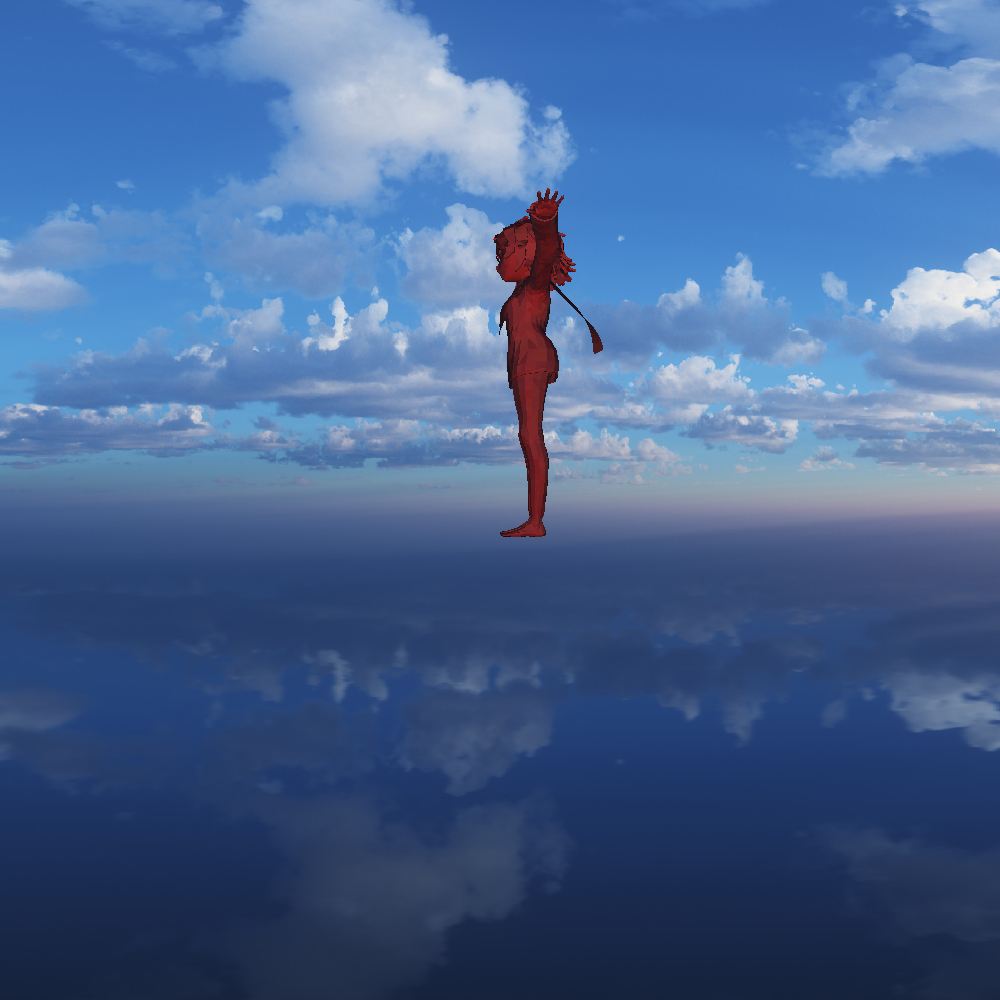
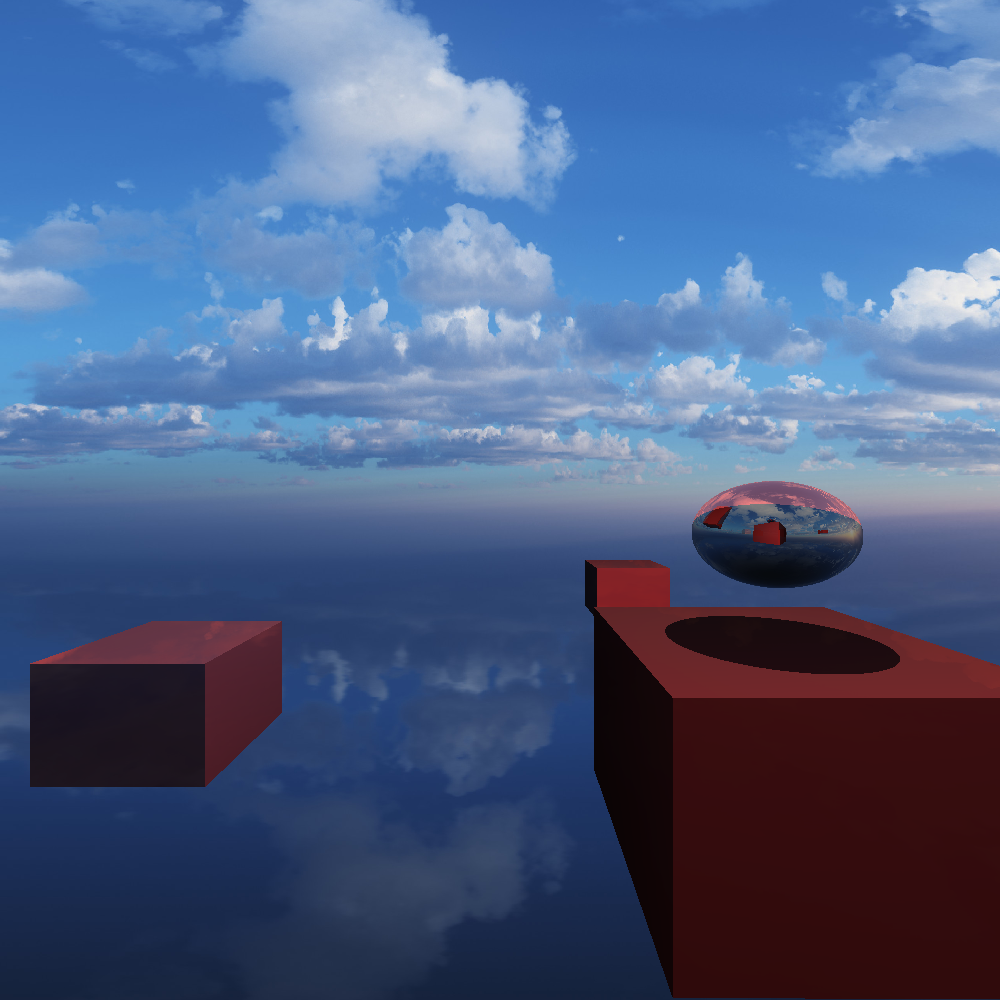
Presenting version

diff --git a/dev/src/render/render.c b/dev/src/render/render.c
@@ -6,39 +6,28 @@ void get_background(ray* ry, world* wd){
         scale(ry->dir, -1, dir);
         float u = 0.5+ (atan2f(dir[0], dir[2])/(M_PI*2));
         float v = 0.5+ (asinf(dir[1])/M_PI);
+        SDL_Surface* skybox = wd->skybox;
         int x = u*wd->skybox->w;
         int y = v*wd->skybox->h;
         Uint32 pixel = ((Uint32*)wd->skybox->pixels)[y*wd->skybox->w+x];
         Uint8 r, g, b;
         SDL_GetRGB(pixel, skybox->format, &r,&g,&b);
-        ray_update_result(ry, NULL, INFINITY, (float[]){r/255.0,g/255.0,b/255.0}, (float[]){0,0,0});
+        ray_update_result(ry, NULL, INFINITY, (float[]){r/255.0,g/255.0,b/255.0}, (float[]){0,0,0}, 0);
     }else
-        ray_update_result(ry, NULL, INFINITY, (float[]){0,0,0}, (float[]){0,0,0});
+        ray_update_result(ry, NULL, INFINITY, (float[]){0,0,0}, (float[]){0,0,0}, 0);
 }
 
-
-//check if the shadow_ray touches the light
-//returns 1 if hit an object, 0 otherwise ()
-int shadow_hit(ray* shadow_ray,float prevt){
-    if (shadow_ray->last_hit->tri != NULL)
-        return 1;
-    if (shadow_ray->last_hit->mint != prevt)
-        return 1;
-
-    return 0;     
-}
-
-void shadow_render(ray* ray, world* w, int real_time)
+void shadow_render(ray* ry, world* w)
 {
     struct ray* sRay = calloc(sizeof(struct ray),1);
 
     //Define the position of the shadow ray
-    scale(ray->dir, ray->last_hit->mint + 0.001, sRay->pos);
-    add(ray->pos, sRay->pos, sRay->pos);
-    //printf("triangle : %f\n", ray->last_hit->tri->normal);
-    //Define the normal of the triangle hit by ray
+    scale(ry->dir, (ry->last_hit->mint - 0.00001), sRay->pos);
+    add(ry->pos, sRay->pos, sRay->pos);
+    //printf("triangle : %f\n", ry->last_hit->tri->normal);
+    //Define the normal of the triangle hit by ry
     float normal[3] ={0,0,0};
-    copy(normal,ray->last_hit->normal);
+    normalize(ry->last_hit->normal,normal);
 
     int size = w->size_lights;
     for (int i = 0; i < size; i++){
@@ -47,34 +36,37 @@ void shadow_render(ray* ray, world* w, int real_time)
         
         //Normalize the direction vector
         normalize(sRay->dir,sRay->dir);
-        float x = dotProduct(normal, sRay->dir);
-        float c = x * w->lights[i]->intensity;
+        float mint = distance(sRay->pos, w->lights[i]->pos)+0.01;
+        float c = 1/mint * w->lights[i]->intensity;
+
         //float coeff[3] = {c,c,c};
         
-        sRay->current_mesh = ray->current_mesh;
         sRay->last_hit = calloc(sizeof(struct ray_result),1);
-        sRay->last_hit->mint = distance(sRay->pos, w->lights[i]->pos);
-        float prevt = sRay->last_hit->mint;
-        ray_cast(sRay, w, NULL,0);
+        sRay->last_hit->mint = mint;
+        ray_cast(sRay, w, 0, 0);
         
         //if we hit somthing, set the color in black
-        if (shadow_hit(sRay,prevt) == 0){
-                //add(ray->last_hit->color, coeff, ray->last_hit->color);
-                ray->last_hit->color[0] = ((1 -ray->last_hit->color[0])*c+ray->last_hit->color[0]);
-                ray->last_hit->color[1] = ((1 -ray->last_hit->color[1])*c+ray->last_hit->color[1]);
-                ray->last_hit->color[2] = ((1 -ray->last_hit->color[2])*c+ray->last_hit->color[2]);
+        float x = dotProduct(normal, sRay->dir);
+        if (sRay->last_hit->mint == mint && x > 0){
 
-            }     
-        else{
-                scale(ray->last_hit->color, c, ray->last_hit->color);
-                }
+
+                //light
+                ry->last_hit->color[0] = ((1 -ry->last_hit->color[0])*c+ry->last_hit->color[0]);
+                ry->last_hit->color[1] = ((1 -ry->last_hit->color[1])*c+ry->last_hit->color[1]);
+                ry->last_hit->color[2] = ((1 -ry->last_hit->color[2])*c+ry->last_hit->color[2]);
+        }       
+        else //shadow
+            scale(ry->last_hit->color, sqrt(c), ry->last_hit->color);
+        if(sRay->last_hit)
+            free(sRay->last_hit);
     }
-        free(sRay->last_hit);
-
     free(sRay);
 }
-//int shadow : 1 to compute shadows, 0 otherwise
-void ray_cast(ray* r, world* w, camera* cam, int shadow){
+void _ray_cast(ray* r, world* w, int reflection_count, int allow_shadow){
+    if(reflection_count < 0){
+        get_background(r, w);
+        return;
+    }
     for(int idm = 0; idm < w->size_meshes; idm++){
         mesh* m = w->meshes[idm];
         r->current_mesh = m;
@@ -87,8 +79,12 @@ void ray_cast(ray* r, world* w, camera* cam, int shadow){
     }
     if(r->last_hit == NULL)
         get_background(r, w);
-    else if(!real_time && r->last_hit->reflectivity > 0)
-        reflection(r, w, depth);
+    else{
+        if(reflection_count && r->last_hit->reflectivity > 0)
+            reflection(r, w, reflection_count);
+        if(allow_shadow)
+            shadow_render(r, w);
+    }
 }
 
 void reflection(ray * ry, world * w, int depth)
@@ -101,14 +97,13 @@ void reflection(ray * ry, world * w, int depth)
     normalize(ry->dir, new_ray->pos);
     scale(new_ray->pos, ry->last_hit->mint, new_ray->pos);
     normalize(new_dir, new_ray->dir);
-    //normalize(ry->dir, new_ray->dir);
+    float reflected = ry->last_hit->reflectivity;
     new_ray->last_hit = NULL;
     
-    _ray_cast(new_ray, w, 0, depth +1);
+    _ray_cast(new_ray, w, depth-1, 0);
 
     float init_color[3];
     float reflect_color[3];
-    float reflected = ry->last_hit->reflectivity;
     float absorbed = 1.0-reflected;
     scale(ry->last_hit->color, absorbed, init_color);
     scale(new_ray->last_hit->color, reflected, reflect_color);
@@ -118,8 +113,11 @@ void reflection(ray * ry, world * w, int depth)
 }
 
 
-void ray_cast(ray* r, world* w, int real_time){
-    _ray_cast(r, w, real_time, 0);
+void ray_cast(ray* r, world* w, int reflection, int shadow){
+    if(reflection)
+        _ray_cast(r, w, MAXREFLECTIONS, shadow);
+    else
+        _ray_cast(r, w, 0, shadow);
 }
 
 

diff --git a/dev/src/render/sphere_renderer.c b/dev/src/render/sphere_renderer.c
@@ -1,41 +1,36 @@
 #include "../../include/render/sphere_renderer.h"
 
 int sphere_render(sphere * s, ray * r){
-    float dir[3], hyp[3], onSphere[3], normal[3];
-    double angle, side, xsqr, t;
-    
-    copy(r->dir, dir);
-    minus(s->pos, r->pos, hyp);
-    float dphp = dotProduct(hyp, dir);
-    float nd = norm(dir);
-    float nh = norm(hyp);
-    angle = (acos(dphp/(nh*nd)))*180/M_PI;
-    if (angle > 90) {return 0;}
-    side = dotProduct(hyp, dir);
-    side/=nd;
-    
-    float nshyp = normSquared(hyp);
-    if (s->radius*s->radius <= nshyp - side*side)
-        return 0;
-    xsqr = s->radius*s->radius - nshyp + side*side;
-    //on sphere
-    t = side - sqrt(xsqr);
-    if(r->last_hit != NULL && r->last_hit->mint < t)
-        return 0;
+    float diff[3], onSphere[3], normal[3], dir[3];
     normalize(r->dir, dir);
+    float a = 1;
+    minus(r->pos, s->pos, diff);
+    float b = dotProduct(diff, dir);
+    b*=2;
+    float c = normSquared(diff) - s->radius*s->radius;
+    float discriminant = b*b - 4*a*c;
+    if(discriminant < 0)
+        return 0;
+    float sqrtDisc = sqrt(discriminant);
+    float t = -b - sqrtDisc;
+    if(t < 0)
+        t = -b + sqrtDisc;
+    t/=(2*a);
+    if(t < 0)
+        return 0;
+    if(r->last_hit && r->last_hit->mint < t) //previous was closer
+        return 0;
     scale(dir, t, onSphere);
     add(r->pos, onSphere, onSphere);
-
-    //normal
     minus(onSphere, s->pos, normal);
+    normalize(normal, normal);
     float val = dotProduct(normal, r->dir);
-
     if(val < 0)
         val*=-1;
     if(val > 1)
         val = 1;
-    float color[3];
-    scale(s->color, val, color);
-    ray_update_result(r, NULL, t, color, normal, s->reflectivity);
+    val++;
+    //scale(s->color, val, color);
+    ray_update_result(r, NULL, t, s->color, normal, s->reflectivity);
     return 1;
 }

diff --git a/dev/include/utils/daft_math.h b/dev/include/utils/daft_math.h
@@ -3,16 +3,16 @@
 
 #ifndef DAFT_MATH_H
 #define DAFT_MATH_H
-#define copy(a, r) r[0] = a[0]; r[1] = a[1]; r[2] = a[2];
-#define crossProduct(a, b, r) r[0] = a[1] * b[2] - a[2] * b[1]; r[1] = a[2] * b[0] - a[0] * b[2]; r[2] = a[0] * b[1] - a[1] * b[0];
-#define dotProduct(a, b) a[0] * b[0] + a[1] * b[1] + a[2] * b[2];
-#define add(a, b, r) r[0] = a[0] + b[0]; r[1] = a[1] + b[1]; r[2] = a[2] + b[2];
-#define minus(a, b, r) r[0] = a[0] - b[0]; r[1] = a[1] - b[1]; r[2] = a[2] - b[2];
+#define copy(a, r) r[0] = a[0]; r[1] = a[1]; r[2] = a[2]
+#define crossProduct(a, b, r) r[0] = a[1] * b[2] - a[2] * b[1]; r[1] = a[2] * b[0] - a[0] * b[2]; r[2] = a[0] * b[1] - a[1] * b[0]
+#define dotProduct(a, b) a[0] * b[0] + a[1] * b[1] + a[2] * b[2]
+#define add(a, b, r) r[0] = a[0] + b[0]; r[1] = a[1] + b[1]; r[2] = a[2] + b[2]
+#define minus(a, b, r) r[0] = a[0] - b[0]; r[1] = a[1] - b[1]; r[2] = a[2] - b[2]
 #define scale(a, b, r) r[0] = a[0] * b; r[1] = a[1] * b; r[2] = a[2] * b;
-#define normSquared(a) a[0] * a[0] + a[1] * a[1] + a[2] * a[2];
-#define norm(a) sqrt(a[0] * a[0] + a[1] * a[1] + a[2] * a[2]);
-#define distance(a,b) sqrt(pow(b[0]-a[0],2)+ pow(b[1]-a[1],2)+pow(b[2]-a[2],2));
-#define projectOn(a, b, r) scale(b, dotProduct(a, b) / dotProduct(b, b), r);
+#define normSquared(a) a[0] * a[0] + a[1] * a[1] + a[2] * a[2]
+#define norm(a) sqrt(a[0] * a[0] + a[1] * a[1] + a[2] * a[2])
+#define projectOn(a, b) (dotProduct(a, b)) / (norm(b))
 
 void normalize(float* p, float* r);
+float distance(float* a, float* b);
 #endif

diff --git a/dev/src/main.c b/dev/src/main.c
@@ -10,24 +10,22 @@
 int main(){
     world* wd = init_world();
     printf("LOADING OBJ...");
-load_object("assets/objs/character.obj", wd, 1, (float[]){0,0,0}, .1);
-    //load_object(wd, "assets/objs/cube.obj", 1, (float[]){0,0,0}, .4);
     printf("WORDL OBJ COUNT: %d \n", wd->size_meshes);
     camera* cam = init_camera((float[]){-2,0,0}, 0, 0, 90, 90);
     add_camera(wd, cam);
-    // int bound = 3;
-    // for(int i = 0; i < bound; i++){
-    //     for(int j = 0; j < bound; j++){
-    //         for(int k = 0; k < bound; k++){
-    //              sphere* s = sphere_init(i,j,k,0.3*((i+j+k)%2+1),(i+k)%2,(i+j)%2,(j+k)%2,.7);
-    //             add_sphere(wd, s);
-    //         }
-    //     }
-    // }
-
+    sphere* s = sphere_init(0, 2, 0, 0.5, .5, 0 ,0, 1);
+    add_sphere(wd, s);
+    load_object("assets/objs/cube.obj", wd, 1, (float[]){0,0,0}, .1);
+    load_object("assets/objs/cube.obj", wd, .5, (float[]){4,0.5,0}, .3);
+    load_object("assets/objs/cube.obj", wd, .5, (float[]){-4,0.5,0}, .5);
+    load_object("assets/objs/cube.obj", wd, .5, (float[]){0,0.5,4}, .7);
+    load_object("assets/objs/cube.obj", wd, .5, (float[]){0,0.5,-4}, 1);
+    light* lt = init_light((float[]){0,5,0}, (float[]){1,1,1}, 1);
+    add_light(wd, lt);
+    
     app_params params;
-    params.width = 100;
-    params.height = 100;
+    params.width = 200;
+    params.height = 200;
     params.wd = wd; 
     params.cam = cam;
     params.FPS_UPPER_LIMIT=30;

diff --git a/dev/src/window/renderer.c b/dev/src/window/renderer.c
@@ -17,7 +17,7 @@ void render_screen(raycast_params* rcp)
 #pragma omp parallel for
     for(int i = 0; i < width*height; i++){
         ray r = create_ray_interpolate(rcp, i%width, i/width);
-        ray_cast(&r, w, 1);
+        ray_cast(&r, w, rcp->reflection, rcp->shadow);
         if(r.last_hit != NULL){
             pixels[i] = SDL_MapRGBA(format, r.last_hit->color[0]*255, r.last_hit->color[1]*255, r.last_hit->color[2]*255, 255);
             free(r.last_hit);
@@ -84,7 +84,7 @@ void* render_quality_process(void* rcpptr){
     update_sides(rcp);
     for(int i = 0; i < width*height; i++){
         ray r = create_ray_interpolate(rcp, i%width, i/width);
-        ray_cast(&r, w, 0);
+        ray_cast(&r, w, rcp->reflection, rcp->shadow);
         if(r.last_hit != NULL){
             setPixel(image, i%width, i/width, SDL_MapRGBA(format, r.last_hit->color[0]*255, r.last_hit->color[1]*255, r.last_hit->color[2]*255, 255));
             free(r.last_hit);
@@ -98,7 +98,7 @@ void* render_quality_process(void* rcpptr){
         }
     }
     pthread_mutex_lock(&mutex);
-    percentage = 100;
+    percentage = 0;
     pthread_mutex_unlock(&mutex);
 
 
@@ -111,6 +111,9 @@ void* render_quality_process(void* rcpptr){
 }
 
 void render_quality(raycast_params* rcp){
+    if(percentage != 0)
+        return;
+    printf("RENDERING...\n");
     pthread_t thread;
     pthread_create(&thread, NULL, render_quality_process, (void*)rcp);
 }

diff --git a/dev/src/window/event_handler.c b/dev/src/window/event_handler.c
@@ -9,7 +9,8 @@ void launch_quality_render(app_params* params){
     quality_cam->yaw = params->cam->yaw;
     quality_cam->pitch = params->cam->pitch;
     raycast_params* quality_rcp = init_raycast_params(params->wd, QUALITY_WIDTH, QUALITY_HEIGHT, quality_cam, NULL);
-    printf("COPYING...\n");
+    quality_rcp->shadow = params->rcp->shadow;
+    quality_rcp->reflection = params->rcp->reflection;
     render_quality(quality_rcp);
 }
 
@@ -23,6 +24,14 @@ void handle_key(SDL_Keycode key, app_params* params, int pressed){
         case SDLK_p:
             if(pressed)
                 launch_quality_render(params);
+            break;
+        case SDLK_u:
+            if(pressed)
+                params->rcp->reflection = !params->rcp->reflection;
+            break;
+        case SDLK_i:
+            if(pressed)
+                params->rcp->shadow = !params->rcp->shadow;
             break;
         case SDLK_w:
             params->cam->movement_speed[0] += delta;

diff --git a/dev/src/window/window.c b/dev/src/window/window.c
@@ -13,10 +13,6 @@ int setup_window(app_params* params){
     SDL_SetRelativeMouseMode(SDL_TRUE);
     SDL_RendererInfo info;
     SDL_GetRendererInfo(params->renderer, &info );
-    printf("Renderer Name: %s\n", info.name);
-    for(Uint32 i = 0; i < info.num_texture_formats; i++){
-        printf("Format: %s\n", SDL_GetPixelFormatName(info.texture_formats[i]));
-    }
     //pixels
     params->texture = SDL_CreateTexture(params->renderer, SDL_PIXELFORMAT_RGBA8888, SDL_TEXTUREACCESS_STREAMING, params->width, params->height);
     Uint32* pixels;

diff --git a/dev/src/architecture/ray.c b/dev/src/architecture/ray.c
@@ -29,8 +29,8 @@ void ray_update_result(ray* r, triangle* tri, float new_mint, float color[3], fl
     new_hit->mint = new_mint;
     new_hit->tri = tri;
     new_hit->m = r->current_mesh;
-    normalize(normal, new_hit->normal);
     new_hit->reflectivity = reflectivity;
+    normalize(normal, new_hit->normal);
     copy(color, new_hit->color);
     if(r->last_hit != NULL)
         free(r->last_hit);

diff --git a/dev/src/render/rendering_tools.c b/dev/src/render/rendering_tools.c
@@ -11,6 +11,8 @@ raycast_params* init_raycast_params(world* wd, int width, int height, camera* ca
     rcp->height = height;
     rcp->cam = cam;
     rcp->pixels = pixels;
+    rcp->shadow = 0;
+    rcp->reflection = 0;
     return rcp;
 }
 void free_raycast_params(raycast_params* rcp){

diff --git a/dev/src/preprocessing/obj_parser.c b/dev/src/preprocessing/obj_parser.c
@@ -40,7 +40,6 @@ void load_object(char* path, world* w, float scale, float pos[3], float reflecti
         return;
     }
 
-    printf("tri %ld v %ld\n",tri, vert);
     mesh* new_mesh = build_mesh(vert, tri);
     fseek(file, 0, SEEK_SET);
 

diff --git a/dev/include/constants.h b/dev/include/constants.h
@@ -2,7 +2,7 @@
 #define CONSTANTS_H
 #define M_PI 3.14159265358979323846
 #define MINTRIANGLES 30
-#define MAXREFLECTIONS 3
+#define MAXREFLECTIONS 2
 #define QUALITY_WIDTH 1000
 #define QUALITY_HEIGHT 1000
 #define LBBOX 4

diff --git a/dev/include/render/render.h b/dev/include/render/render.h
@@ -7,6 +7,6 @@
 
 #ifndef RENDER_H
 #define RENDER_H
-void ray_cast(ray* r, world* w, int real_time);
+void ray_cast(ray* r, world* w, int reflection, int shadow);
 void reflection(ray * r, world * w, int depth);
 #endif
